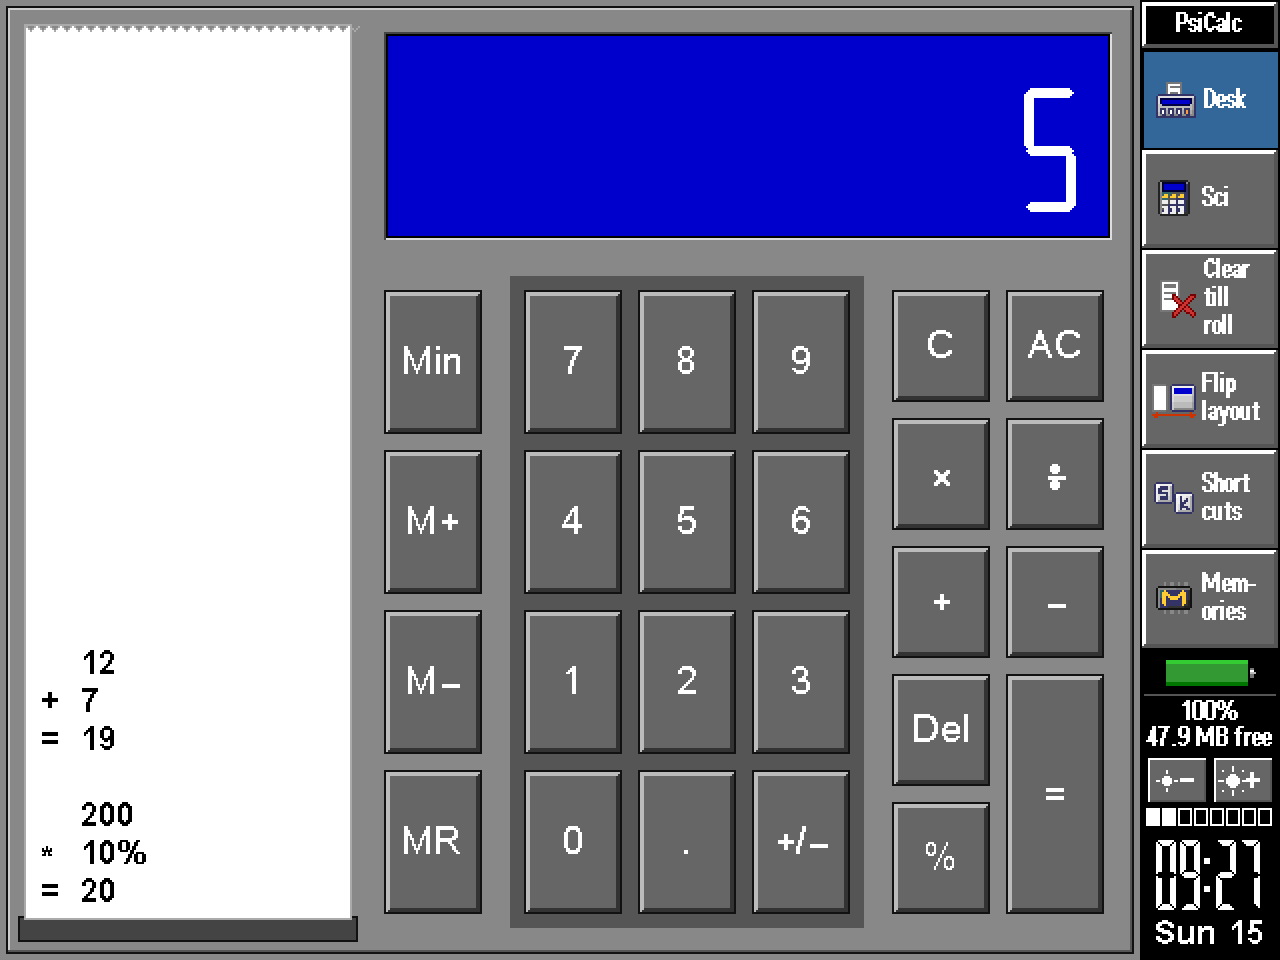
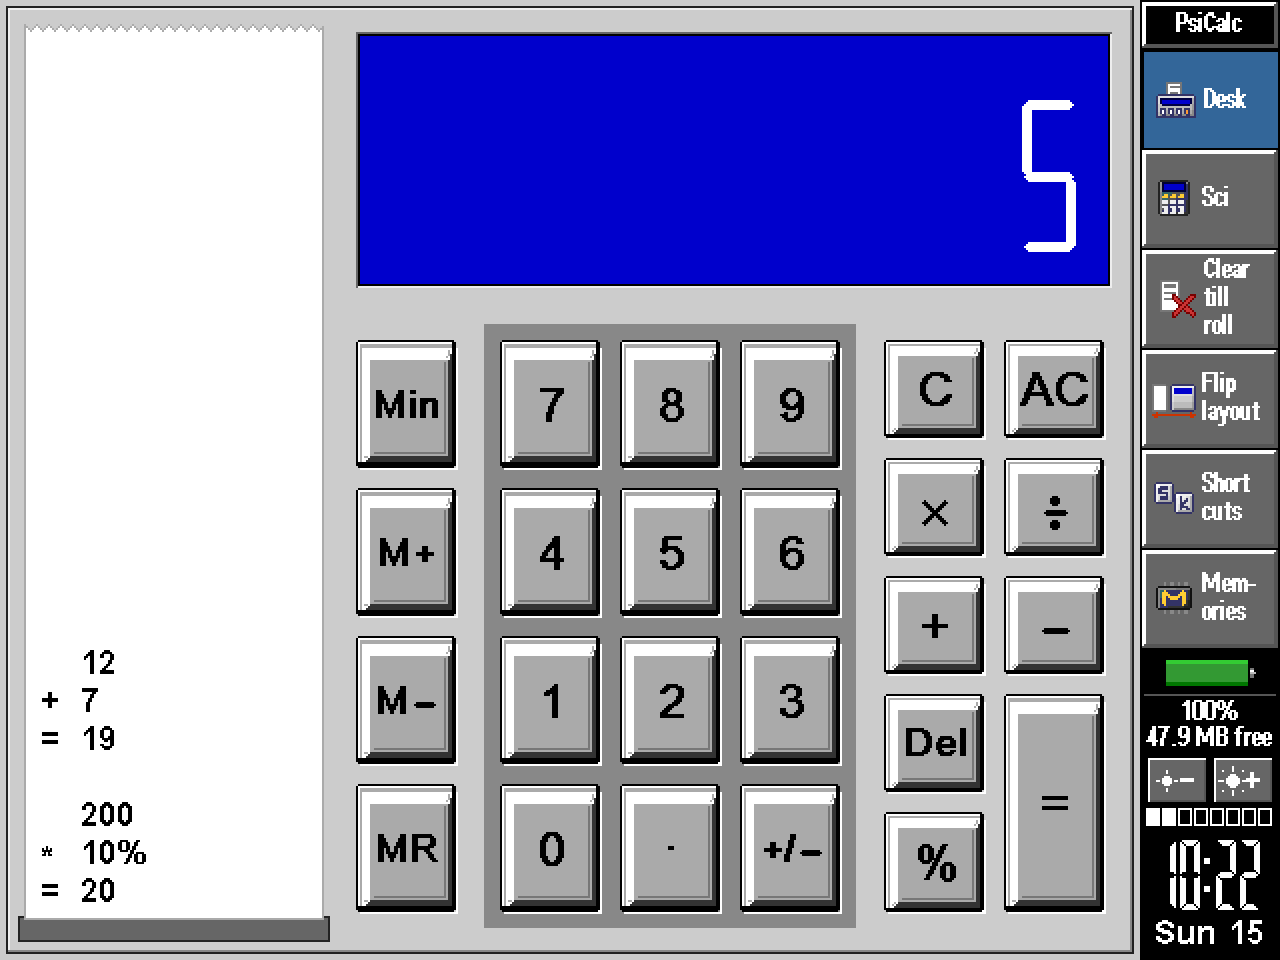
PsiCalc with Calc's own key look; PsiHub's restart and Control panel items

diff --git a/STATUS.md b/STATUS.md
@@ -32,7 +32,7 @@ Everything Coda changes, one row each, with a screenshot of the bit that changed
 | PsiStart | Start-up work had nowhere to live. | A hidden program that paints the theme's pictures, sets first-start defaults, runs the timers and does the warm restart. | <a href="img/2026-11-14-psihub-and-psistart/psistart-dark-bar.png"><img src="img/2026-11-14-psihub-and-psistart/psistart-dark-bar.png" width="200" alt="PsiStart"></a> | [post](posts/2026-11-14-psihub-and-psistart.md) |
 | Psi programs | Not part of the system. | In the ROM in the full build. In my build they stay on the card. Other Psi programs are also included. | <a href="img/2026-11-14-icons/psi-programs-now.png"><img src="img/2026-11-14-icons/psi-programs-now.png" width="200" alt="Psi programs"></a> | [post](posts/2026-11-12-the-starting-point.md) |
 | PsiView | No picture viewer. | PNG, JPEG, GIF and BMP, fitted to the screen, a palette chosen for each photo; opens from the System screen. | <a href="img/2026-11-14-pictures/psiview.png"><img src="img/2026-11-14-pictures/psiview.png" width="200" alt="PsiView"></a> | [post](posts/2026-11-14-pictures-and-colour-tests.md) |
-| PsiCalc | Psion's Calc draws its Series 5 face, half the netBook's height, in the middle of the screen. | Calc made again for the whole screen: the same Desk and Scientific views, till roll, keys, menus, memories, formats and keyboard shortcuts, with keys drawn like the System's buttons in the theme's colours. Calc's own icon opens it; Psion's Calc moves to the Extras bar. | <a href="img/2026-11-15-psicalc/calc-desk-before.png"><img src="img/2026-11-15-psicalc/calc-desk-before.png" width="140" alt="PsiCalc"></a> <a href="img/2026-11-15-psicalc/psicalc-desk.png"><img src="img/2026-11-15-psicalc/psicalc-desk.png" width="140" alt="PsiCalc"></a> <a href="img/2026-11-15-psicalc/calc-sci-before.png"><img src="img/2026-11-15-psicalc/calc-sci-before.png" width="140" alt="PsiCalc"></a> <a href="img/2026-11-15-psicalc/psicalc-sci.png"><img src="img/2026-11-15-psicalc/psicalc-sci.png" width="140" alt="PsiCalc"></a> | [post](posts/2026-11-15-psicalc.md) |
+| PsiCalc | Psion's Calc draws its Series 5 face, half the netBook's height, in the middle of the screen. | Calc made again for the whole screen: the same Desk and Scientific views, till roll, keys, menus, memories, formats and keyboard shortcuts, with keys drawn the way Calc draws its own: the same raised grey keycaps, scaled up. Calc's own icon opens it; Psion's Calc moves to the Extras bar. | <a href="img/2026-11-15-psicalc/calc-desk-before.png"><img src="img/2026-11-15-psicalc/calc-desk-before.png" width="140" alt="PsiCalc"></a> <a href="img/2026-11-15-psicalc/psicalc-desk.png"><img src="img/2026-11-15-psicalc/psicalc-desk.png" width="140" alt="PsiCalc"></a> <a href="img/2026-11-15-psicalc/calc-sci-before.png"><img src="img/2026-11-15-psicalc/calc-sci-before.png" width="140" alt="PsiCalc"></a> <a href="img/2026-11-15-psicalc/psicalc-sci.png"><img src="img/2026-11-15-psicalc/psicalc-sci.png" width="140" alt="PsiCalc"></a> <a href="img/2026-11-15-psicalc/keys-desk-before-after.png"><img src="img/2026-11-15-psicalc/keys-desk-before-after.png" width="200" alt="PsiCalc keys"></a> | [post](posts/2026-11-15-psicalc.md) |
 | Programs (Control panel) | No way to choose between one of Psion's programs and Coda's version of it. | A Programs item: for Calc, whether its icons open Psion's Calc or PsiCalc (PsiCalc as standard); the other one stays on the Extras bar. Used after the next restart. | <a href="img/2026-11-15-psicalc/programs-before.png"><img src="img/2026-11-15-psicalc/programs-before.png" width="140" alt="Programs"></a> <a href="img/2026-11-15-psicalc/programs-after.png"><img src="img/2026-11-15-psicalc/programs-after.png" width="140" alt="Programs"></a> <a href="img/2026-11-15-psicalc/programs-dialog.png"><img src="img/2026-11-15-psicalc/programs-dialog.png" width="200" alt="Programs"></a> | [post](posts/2026-11-15-psicalc.md) |
 | Control panel items | Nowhere to choose the new settings. | Themes, Text, Icons, Toolbar, Screenshot, Internet time, SerialBoost. | <a href="img/2026-11-12-starting-point/control-panel-before.png"><img src="img/2026-11-12-starting-point/control-panel-before.png" width="140" alt="Control panel items"></a> <a href="img/2026-11-12-starting-point/control-panel-after.png"><img src="img/2026-11-12-starting-point/control-panel-after.png" width="140" alt="Control panel items"></a> | [post](posts/2026-11-12-the-starting-point.md) |
 | Internet time | The clock drifts; summer time by hand. | The clock set daily from a time server, summer time on the right dates, the time zone found on request (off as standard). | <a href="img/2026-11-14-small-additions/internet-time.png"><img src="img/2026-11-14-small-additions/internet-time.png" width="200" alt="Internet time"></a> | [post](posts/2026-11-14-small-additions.md) |
@@ -77,6 +77,7 @@ Everything Coda changes, one row each, with a screenshot of the bit that changed
 | PsiHub panel | The panel jumped up and down as I typed, the right column said "Word" next to Word and "open" a lot, and System had no icon. | The search box stays put and the bottom edge moves. The right column only shows a file name that says something new. System gets the System screen's own desk icon. | <a href="img/2026-11-15-polish-3/hub-before.png"><img src="img/2026-11-15-polish-3/hub-before.png" width="140" alt="PsiHub panel"></a> <a href="img/2026-11-15-polish-3/hub-after.png"><img src="img/2026-11-15-polish-3/hub-after.png" width="140" alt="PsiHub panel"></a> <a href="img/2026-11-15-polish-3/hub-system-before.png"><img src="img/2026-11-15-polish-3/hub-system-before.png" width="140" alt="PsiHub panel"></a> <a href="img/2026-11-15-polish-3/hub-system-after.png"><img src="img/2026-11-15-polish-3/hub-system-after.png" width="140" alt="PsiHub panel"></a> | [post](posts/2026-11-14-psihub-and-psistart.md) |
 | About boxes | About PsiHub came up titled "Information", with "(c)". | Proper About PsiHub and About PsiView boxes with a real © sign. | <a href="img/2026-11-15-polish-3/about-before.png"><img src="img/2026-11-15-polish-3/about-before.png" width="140" alt="About boxes"></a> <a href="img/2026-11-15-polish-3/about-after.png"><img src="img/2026-11-15-polish-3/about-after.png" width="140" alt="About boxes"></a> | [post](posts/2026-11-14-psihub-and-psistart.md) |
 | PsiHub on a small screen | With lots of programs open, PsiHub's list ran off the bottom of a Series 5mx's screen, taking the last rows and the hint line with it. | The panel shows as many rows as fit the screen (five on the 5mx, nine on the netBook) and scrolls through the rest, with "2 of 12" on the hint line. | <a href="img/2026-11-15-hub-033/hub-5mx-before.png"><img src="img/2026-11-15-hub-033/hub-5mx-before.png" width="140" alt="PsiHub on a small screen"></a> <a href="img/2026-11-15-hub-033/hub-5mx-after.png"><img src="img/2026-11-15-hub-033/hub-5mx-after.png" width="140" alt="PsiHub on a small screen"></a> | [post](posts/2026-11-14-psihub-and-psistart.md) |
+| PsiHub restart and settings | PsiHub's restart command was "Restart netBook...", and not every Control panel item could be opened from it on every machine. | Plain "Restart..." (it asks "Restart now?"), offered on the Series 5mx too; every item in the Control panel is listed and opens from PsiHub, the right one each time, on the netBook (Programs included) and the 5mx. | <a href="img/2026-11-15-hub-034/hub-nb-search-before.png"><img src="img/2026-11-15-hub-034/hub-nb-search-before.png" width="140" alt="PsiHub restart"></a> <a href="img/2026-11-15-hub-034/hub-nb-search-after.png"><img src="img/2026-11-15-hub-034/hub-nb-search-after.png" width="140" alt="PsiHub restart"></a> | [post](posts/2026-11-14-psihub-and-psistart.md) |
 | PsiView toolbar | No name and no battery line, unlike every other program. "Back" on the toolbar, "Previous picture" in the menu. | The name box, the battery and the charge, memory and brightness line, as the built-in programs have. "Previous" on the toolbar to match the menu. | <a href="img/2026-11-15-polish-3/psiview-toolbar-before.png"><img src="img/2026-11-15-polish-3/psiview-toolbar-before.png" width="70" alt="PsiView toolbar"></a> <a href="img/2026-11-15-polish-3/psiview-toolbar-after.png"><img src="img/2026-11-15-polish-3/psiview-toolbar-after.png" width="70" alt="PsiView toolbar"></a> <a href="img/2026-11-15-polish-3/psiview-menu-before.png"><img src="img/2026-11-15-polish-3/psiview-menu-before.png" width="140" alt="PsiView toolbar"></a> <a href="img/2026-11-15-polish-3/psiview-menu-after.png"><img src="img/2026-11-15-polish-3/psiview-menu-after.png" width="140" alt="PsiView toolbar"></a> | [post](posts/2026-11-14-pictures-and-colour-tests.md) |
 | Control panel > Toolbar | Show and Hide choice lists for things that are simply on or off. | Tick boxes. | <a href="img/2026-11-15-polish-3/toolbar-before.png"><img src="img/2026-11-15-polish-3/toolbar-before.png" width="140" alt="Control panel > Toolbar"></a> <a href="img/2026-11-15-polish-3/toolbar-after.png"><img src="img/2026-11-15-polish-3/toolbar-after.png" width="140" alt="Control panel > Toolbar"></a> | [post](posts/2026-11-14-the-toolbar.md) |
 | Internet time | A wide dialog, On and Off lists, and "World" for a program called Time on the netBook. | Tick boxes, shorter lines so the dialog is narrower, and "Time". | <a href="img/2026-11-15-polish-3/internet-time-before.png"><img src="img/2026-11-15-polish-3/internet-time-before.png" width="140" alt="Internet time"></a> <a href="img/2026-11-15-polish-3/internet-time-after.png"><img src="img/2026-11-15-polish-3/internet-time-after.png" width="140" alt="Internet time"></a> | [post](posts/2026-11-14-small-additions.md) |

diff --git a/posts/2026-11-15-psicalc.md b/posts/2026-11-15-psicalc.md
@@ -19,9 +19,17 @@ PsiCalc keeps all of it. The Desk view is still an adding machine with a till ro
 
 It also writes numbers the way Calc does. Calc has its own rule for when to show 0.125 and when to show 3.33333333333E-01, and I checked PsiCalc against everything I'd read off the real one.
 
-## Bigger keys
+## Calc's keys, bigger
 
-The keys are drawn the way the System screen draws its buttons: a raised edge, lit from the top left, pressing in when you tap them. They take the theme's button colours, so they're lavender in the standard theme and grey in Dark. The display stays Calc's blue with white segment figures, because that's what Calc looks like.
+Calc's keys are little 3D keycaps: a black outline with the corners nipped off, a white slope down the top and left, a dark one on the right and bottom meeting it at a crease, and a grey top with the label in Arial (bold on the Desk view). PsiCalc draws exactly that, layer for layer, just bigger, so every key still has crisp edges at the larger size. Press one and it sinks into its hole the way Calc's do (inv and hyp stay down while they're on).
+
+Psion's Calc on the left, PsiCalc on the right:
+
+![Calc's Desk keys beside PsiCalc's](../img/2026-11-15-psicalc/keys-desk-before-after.png)
+
+![Calc's Scientific keys beside PsiCalc's](../img/2026-11-15-psicalc/keys-sci-before-after.png)
+
+Like Calc, the keys and the grey case are the same on every theme, with Calc's blue display and white segment figures. The till roll takes the theme's colours, as Calc's does.
 
 | Coda | Coda (Dark) |
 |---|---|
